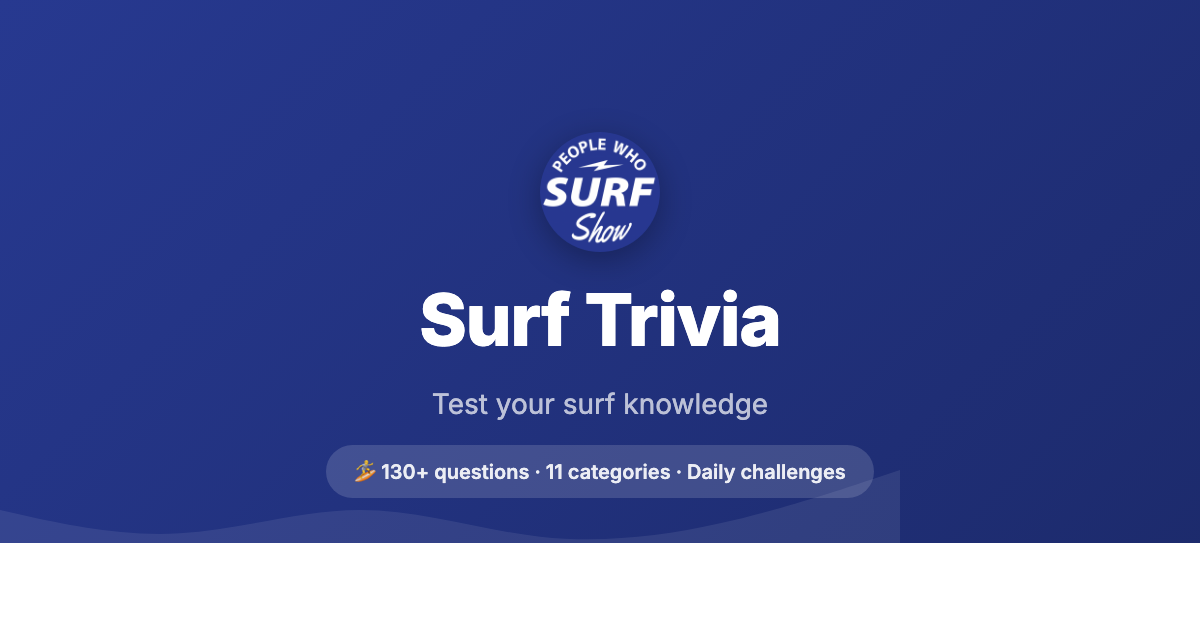
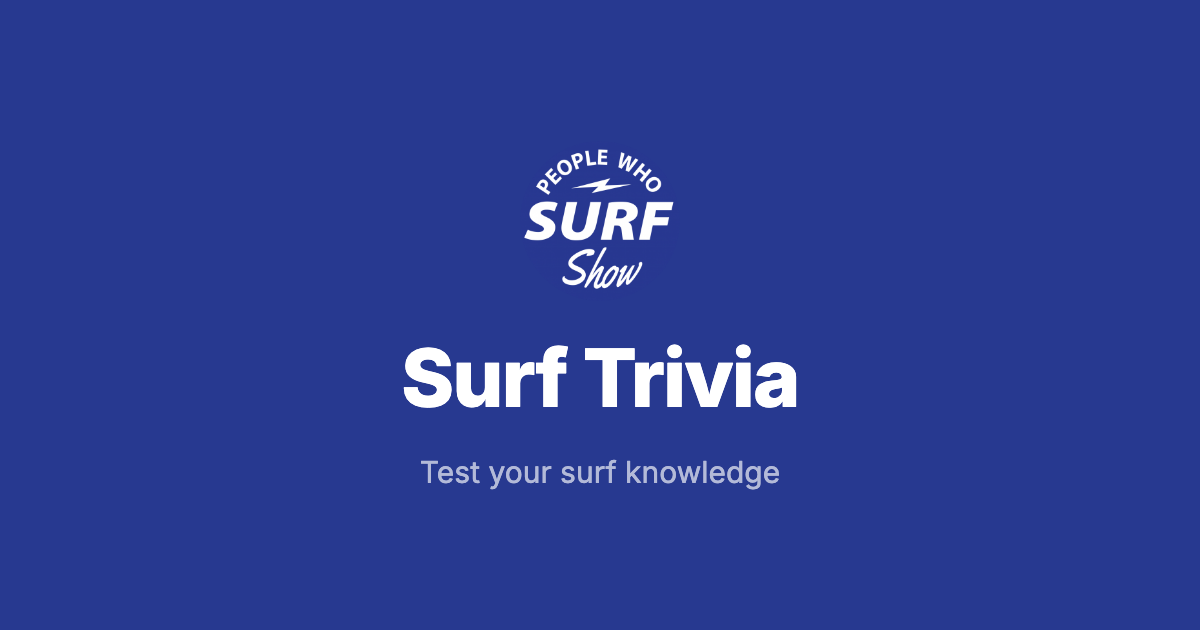
Add PWA support, accessibility, loading state, and redesigned OG image
- PWA manifest for Add to Home Screen capability
- 404.html SPA redirect for GitHub Pages routing
- Loading state to prevent white flash on startup
- Accessibility: role="button", tabIndex, keyboard event support
- Redesigned OG image: solid blue bg, logo, title, tagline
- Twitter Card and Apple meta tags

diff --git a/src/App.jsx b/src/App.jsx
@@ -23,6 +23,14 @@ const CATEGORY_ICONS = {
   women: Star, tricks: Target, pws: Mic,
 };
 
+// Accessibility helper: makes a div act like a button
+const clickable = (onClick) => ({
+  onClick,
+  onKeyDown: (e) => { if (e.key === "Enter" || e.key === " ") { e.preventDefault(); onClick(e); } },
+  role: "button",
+  tabIndex: 0,
+});
+
 // ─── Home Screen ───
 function HomeScreen({ onNavigate, streak, totalScore }) {
   return (
@@ -80,7 +88,7 @@ function HomeScreen({ onNavigate, streak, totalScore }) {
 
         <div
           className="mode-card"
-          onClick={() => onNavigate("daily")}
+          {...clickable(() => onNavigate("daily"))}
           style={{
             background: `linear-gradient(135deg, ${COLORS.blue} 0%, ${COLORS.blueLight} 100%)`,
             borderRadius: 16, padding: "20px 24px", marginBottom: 12,
@@ -112,7 +120,7 @@ function HomeScreen({ onNavigate, streak, totalScore }) {
           <div
             key={m.name}
             className="mode-card"
-            onClick={() => onNavigate(m.screen)}
+            {...clickable(() => onNavigate(m.screen))}
             style={{
               background: COLORS.white, borderRadius: 16, padding: "18px 24px", marginBottom: 12,
               border: `1px solid ${COLORS.gray200}`,
@@ -144,7 +152,7 @@ function CategoriesScreen({ onNavigate, onStartQuiz, categoryBests }) {
         background: COLORS.white, padding: "16px 20px", borderBottom: `1px solid ${COLORS.gray200}`,
         display: "flex", alignItems: "center", gap: 12,
       }}>
-        <div onClick={() => onNavigate("home")} style={{ cursor: "pointer", padding: 4 }}>
+        <div {...clickable(() => onNavigate("home"))} aria-label="Back to home" style={{ cursor: "pointer", padding: 4 }}>
           <ArrowLeft size={20} color={COLORS.gray700} />
         </div>
         <h1 style={{ fontSize: 18, fontWeight: 700, color: COLORS.gray900, margin: 0 }}>Choose a Category</h1>
@@ -160,7 +168,7 @@ function CategoriesScreen({ onNavigate, onStartQuiz, categoryBests }) {
               <div
                 key={cat.id}
                 className="category-card"
-                onClick={() => onStartQuiz(cat.id)}
+                {...clickable(() => onStartQuiz(cat.id))}
                 style={{
                   background: COLORS.white, borderRadius: 14, padding: "20px 16px",
                   border: `1px solid ${COLORS.gray200}`, textAlign: "center",
@@ -273,7 +281,7 @@ function QuestionScreen({ questions, mode, modeLabel, timerDuration, onFinish, o
         background: COLORS.white, padding: "16px 20px", borderBottom: `1px solid ${COLORS.gray200}`,
         display: "flex", justifyContent: "space-between", alignItems: "center",
       }}>
-        <div onClick={onBack} style={{ cursor: "pointer", padding: 4 }}>
+        <div {...clickable(onBack)} aria-label="Back" style={{ cursor: "pointer", padding: 4 }}>
           <ArrowLeft size={20} color={COLORS.gray700} />
         </div>
         <div style={{ textAlign: "center" }}>
@@ -369,7 +377,8 @@ function QuestionScreen({ questions, mode, modeLabel, timerDuration, onFinish, o
               <div
                 key={option}
                 className={`option-card ${answered ? "answered" : ""}`}
-                onClick={() => !answered && doAnswer(option)}
+                {...clickable(() => !answered && doAnswer(option))}
+                aria-disabled={answered}
                 style={{
                   background: bg, border: `2px solid ${border}`, borderRadius: 12,
                   padding: "14px 18px", cursor: answered ? "default" : "pointer",
@@ -566,7 +575,7 @@ function LevelsScreen({ onNavigate, onStartLevel, levelsProgress }) {
         background: COLORS.white, padding: "16px 20px", borderBottom: `1px solid ${COLORS.gray200}`,
         display: "flex", alignItems: "center", gap: 12,
       }}>
-        <div onClick={() => onNavigate("home")} style={{ cursor: "pointer", padding: 4 }}>
+        <div {...clickable(() => onNavigate("home"))} aria-label="Back to home" style={{ cursor: "pointer", padding: 4 }}>
           <ArrowLeft size={20} color={COLORS.gray700} />
         </div>
         <h1 style={{ fontSize: 18, fontWeight: 700, color: COLORS.gray900, margin: 0 }}>The Lineup</h1>
@@ -601,7 +610,8 @@ function LevelsScreen({ onNavigate, onStartLevel, levelsProgress }) {
 
               <div
                 className={`level-card ${unlocked ? "unlocked" : ""}`}
-                onClick={() => unlocked && onStartLevel(i)}
+                {...(unlocked ? clickable(() => onStartLevel(i)) : {})}
+                aria-disabled={!unlocked}
                 style={{
                   flex: 1, background: COLORS.white, borderRadius: 14, padding: "16px 18px",
                   border: `1px solid ${unlocked ? COLORS.gray200 : COLORS.gray100}`,
@@ -642,7 +652,7 @@ function LeaderboardScreen({ onNavigate, streak, totalScore, categoryBests, leve
         background: COLORS.white, padding: "16px 20px", borderBottom: `1px solid ${COLORS.gray200}`,
         display: "flex", alignItems: "center", gap: 12,
       }}>
-        <div onClick={() => onNavigate("home")} style={{ cursor: "pointer", padding: 4 }}>
+        <div {...clickable(() => onNavigate("home"))} aria-label="Back to home" style={{ cursor: "pointer", padding: 4 }}>
           <ArrowLeft size={20} color={COLORS.gray700} />
         </div>
         <h1 style={{ fontSize: 18, fontWeight: 700, color: COLORS.gray900, margin: 0 }}>Your Stats</h1>

diff --git a/index.html b/index.html
@@ -3,6 +3,7 @@
   <head>
     <meta charset="UTF-8" />
     <link rel="icon" type="image/svg+xml" href="/favicon.svg" />
+    <link rel="manifest" href="/surf-trivia-game/manifest.json" />
     <meta name="viewport" content="width=device-width, initial-scale=1.0" />
     <meta name="description" content="Test your surf knowledge with 130+ trivia questions across 11 categories. Daily challenges, progressive levels, and more. From the People Who Surf Show." />
     <meta name="theme-color" content="#273990" />
@@ -30,7 +31,12 @@
     <title>Surf Trivia — People Who Surf</title>
   </head>
   <body>
-    <div id="root"></div>
+    <div id="root">
+      <div id="loading" style="min-height:100vh;display:flex;align-items:center;justify-content:center;background:linear-gradient(135deg,#273990 0%,#1C2A6B 100%);flex-direction:column;gap:16px;">
+        <img src="/surf-trivia-game/pws-logo.png" alt="" style="width:64px;height:64px;border-radius:50%;opacity:0.9;" />
+        <div style="color:rgba(255,255,255,0.7);font-family:Inter,sans-serif;font-size:14px;">Loading...</div>
+      </div>
+    </div>
     <script type="module" src="/src/main.jsx"></script>
   </body>
 </html>

diff --git a/public/404.html b/public/404.html
@@ -1,0 +1,21 @@
+<!DOCTYPE html>
+<html>
+  <head>
+    <meta charset="utf-8">
+    <title>Surf Trivia — People Who Surf</title>
+    <script>
+      // Single Page App redirect for GitHub Pages
+      // Redirects all 404s back to index.html preserving the path
+      var pathSegmentsToKeep = 1; // keep /surf-trivia-game/
+      var l = window.location;
+      l.replace(
+        l.protocol + '//' + l.hostname + (l.port ? ':' + l.port : '') +
+        l.pathname.split('/').slice(0, 1 + pathSegmentsToKeep).join('/') + '/?/' +
+        l.pathname.slice(1).split('/').slice(pathSegmentsToKeep).join('/').replace(/&/g, '~and~') +
+        (l.search ? '&' + l.search.slice(1).replace(/&/g, '~and~') : '') +
+        l.hash
+      );
+    </script>
+  </head>
+  <body></body>
+</html>
